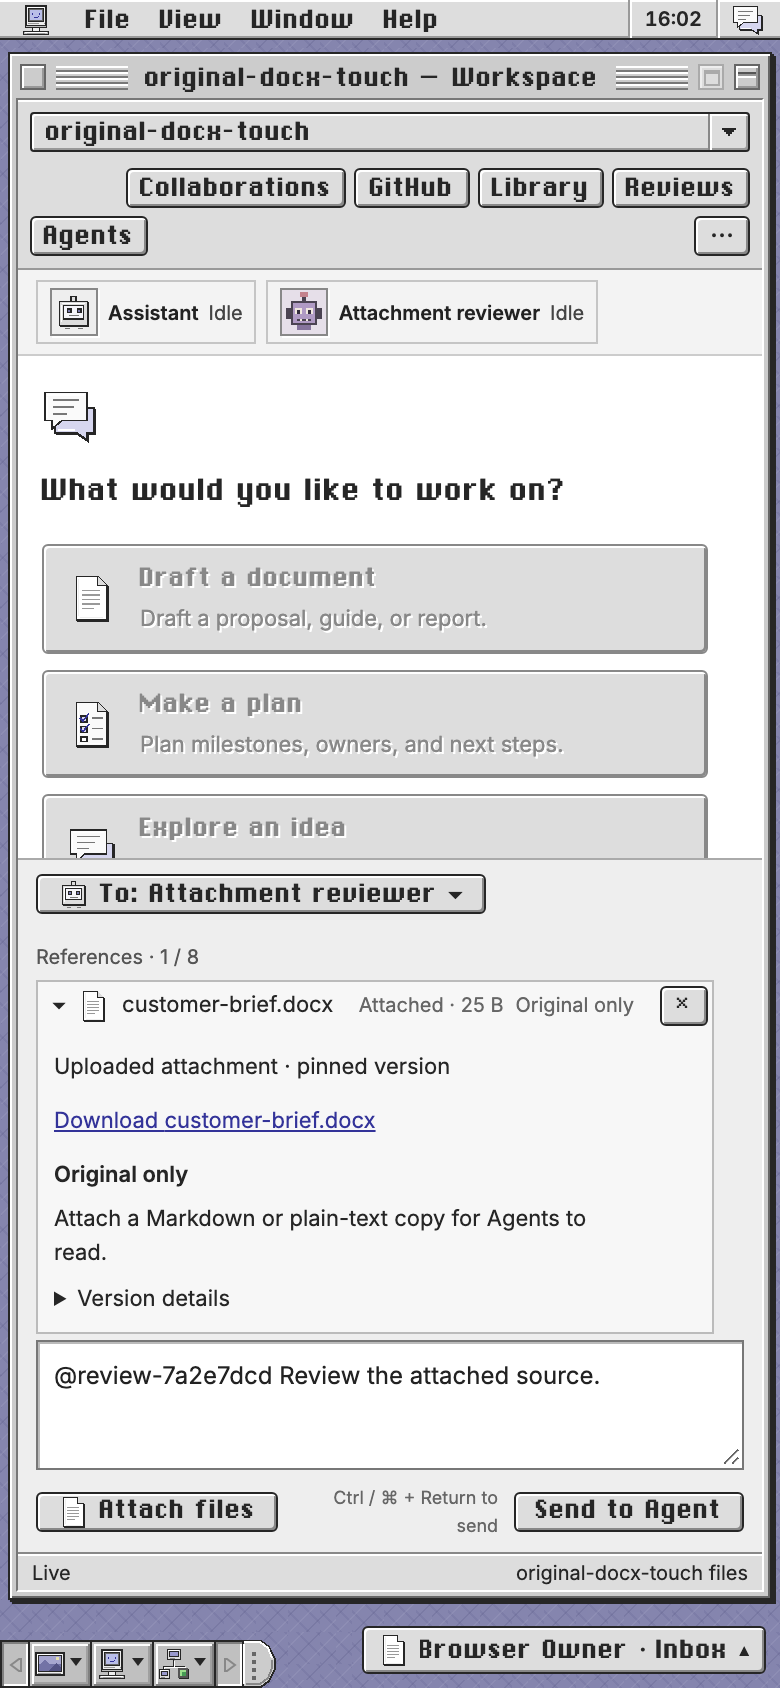
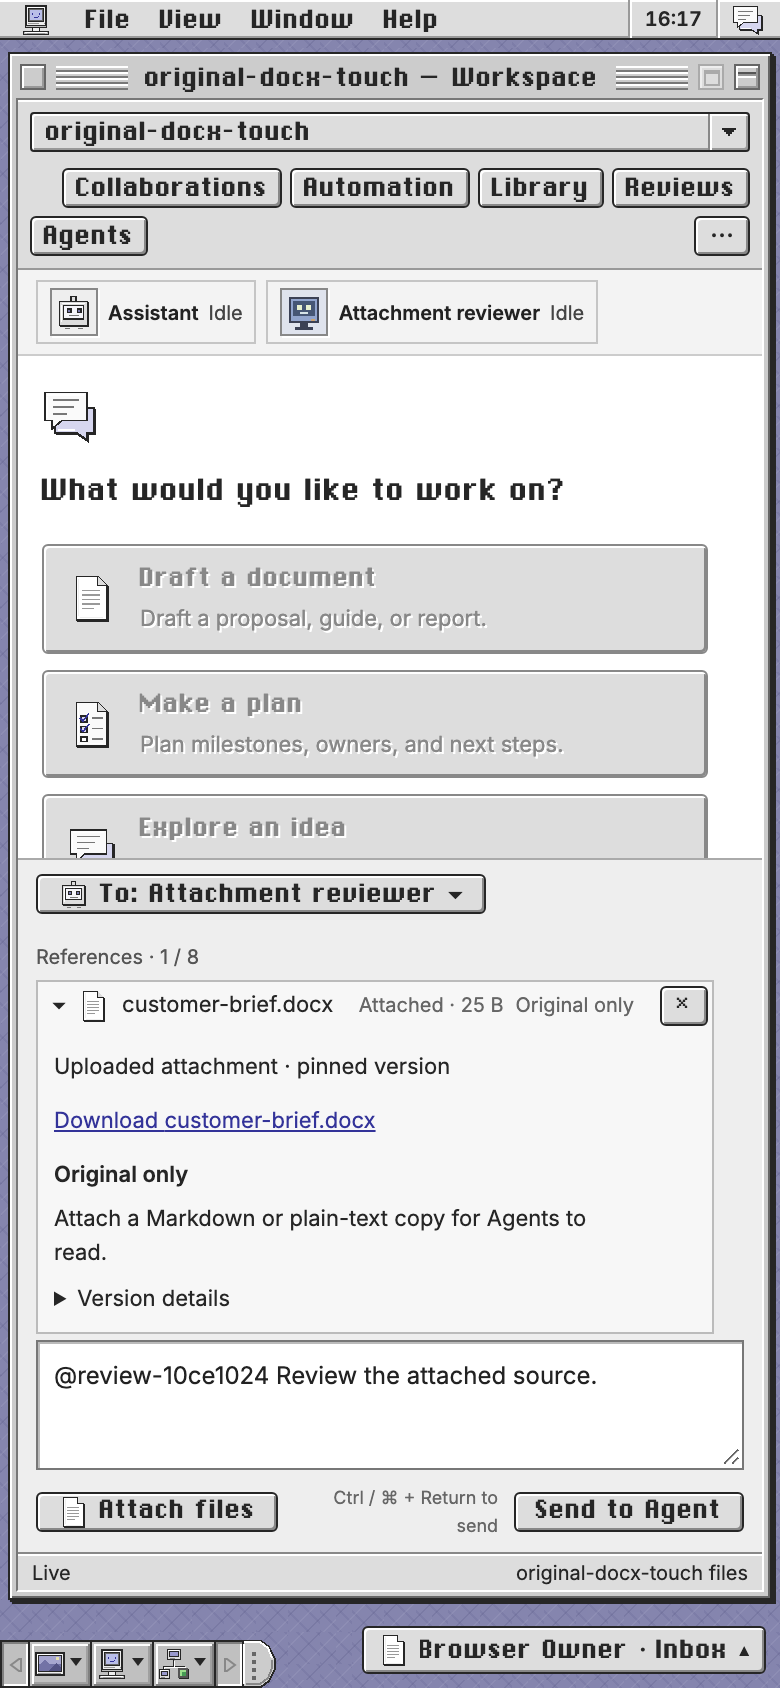
docs: refresh Markdown-first images after upstream integration

diff --git a/docs/review/markdown-first/README.md b/docs/review/markdown-first/README.md
@@ -1,3 +1,3 @@
 # Markdown-first UI review
 
-Synthetic before/after images for issue #105. The baseline is `aa0e422`; the implementation is `73c53f6`. Original-only PDF/DOCX attachments remain sendable and downloadable; saved parsed citations remain readable. This branch contains review assets and is not intended for merge.
+Synthetic before/after images for issue #105. The task-start baseline is `aa0e422`; the integrated implementation is `36e2635`. The Automation toolbar comes from upstream PR #103. Original-only PDF/DOCX attachments remain sendable and downloadable; saved parsed citations remain readable. This branch contains review assets and is not intended for merge. Earlier images remain in commit `f990e4c`.
